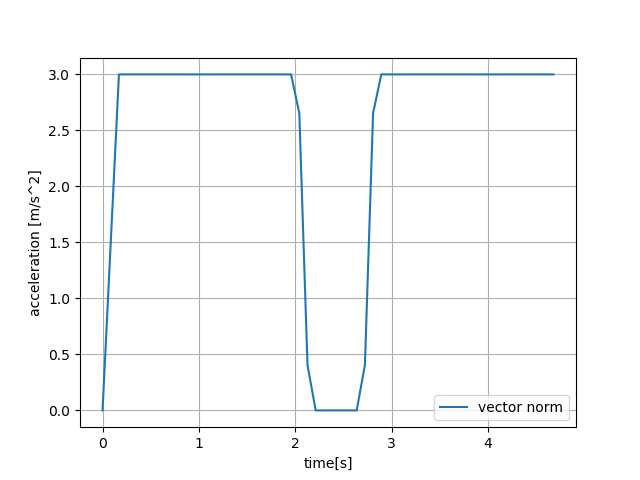
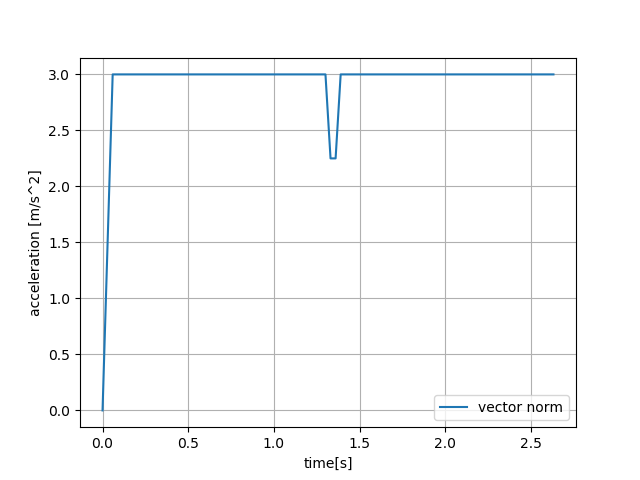
"Instructions to test triangular profile"

diff --git a/main.py b/main.py
@@ -12,6 +12,9 @@ def main():
     initial_point = np.array([1, -5, 3])[:, np.newaxis]
     final_point = np.array([6, 8, 12])[:, np.newaxis]
 
+    # In order to test the triangular profile one could use the following destination point:
+    # final_point = np.array([2, 0, 4])[:, np.newaxis]
+
     # Generating splines for each axis over time
     trajectory, time_vector = auv.generate_splines_from_trapezoidal_profile(initial_point, final_point)
 
